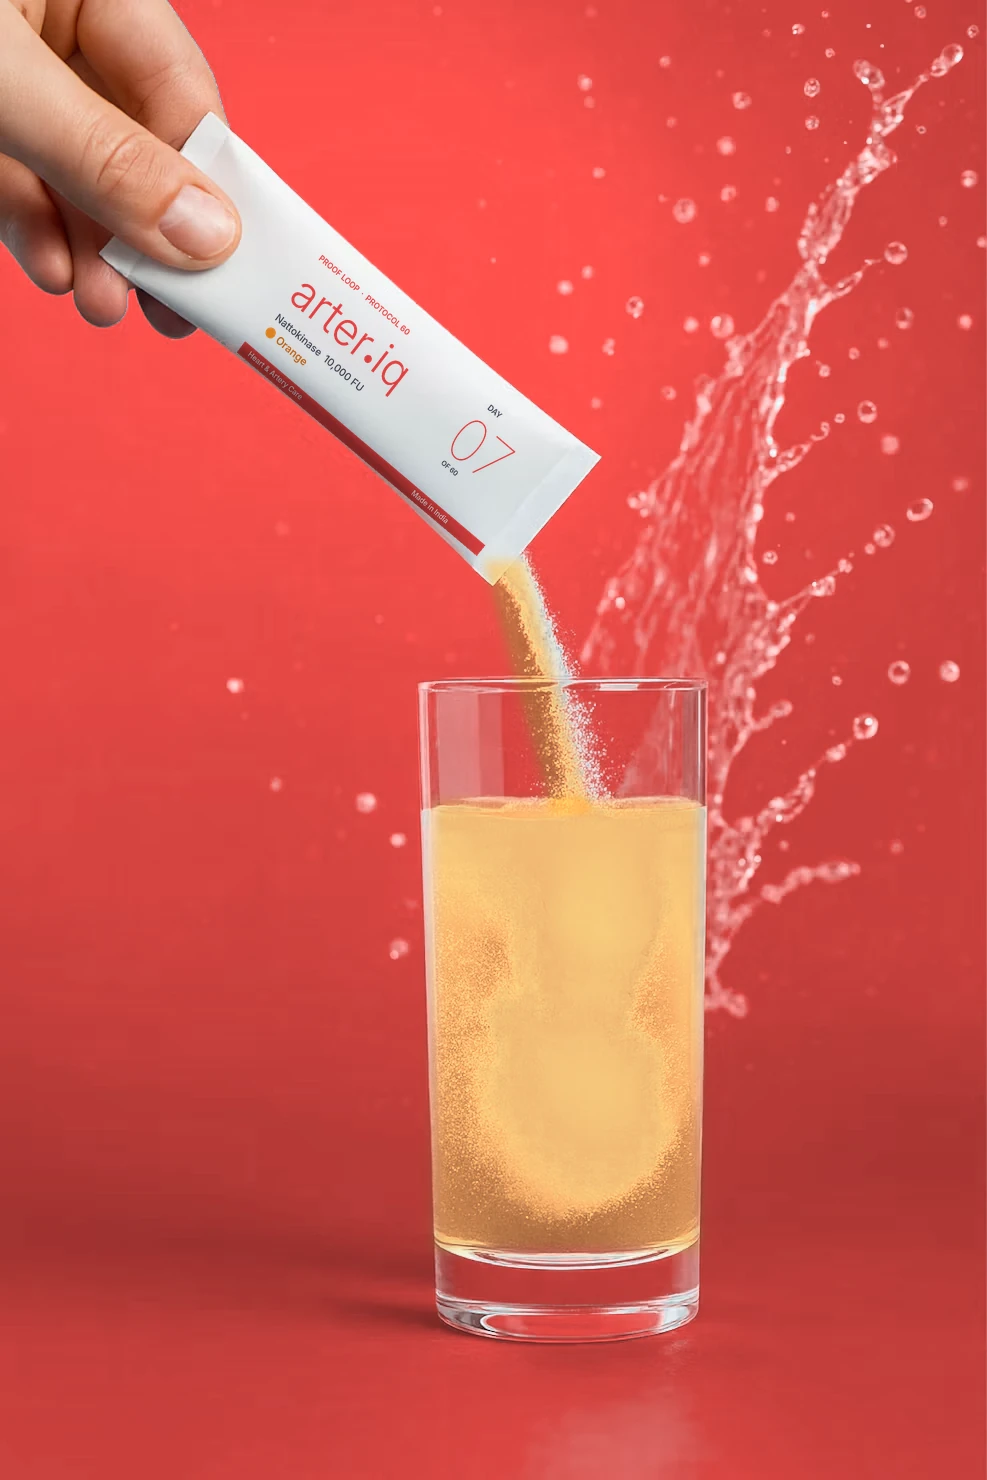
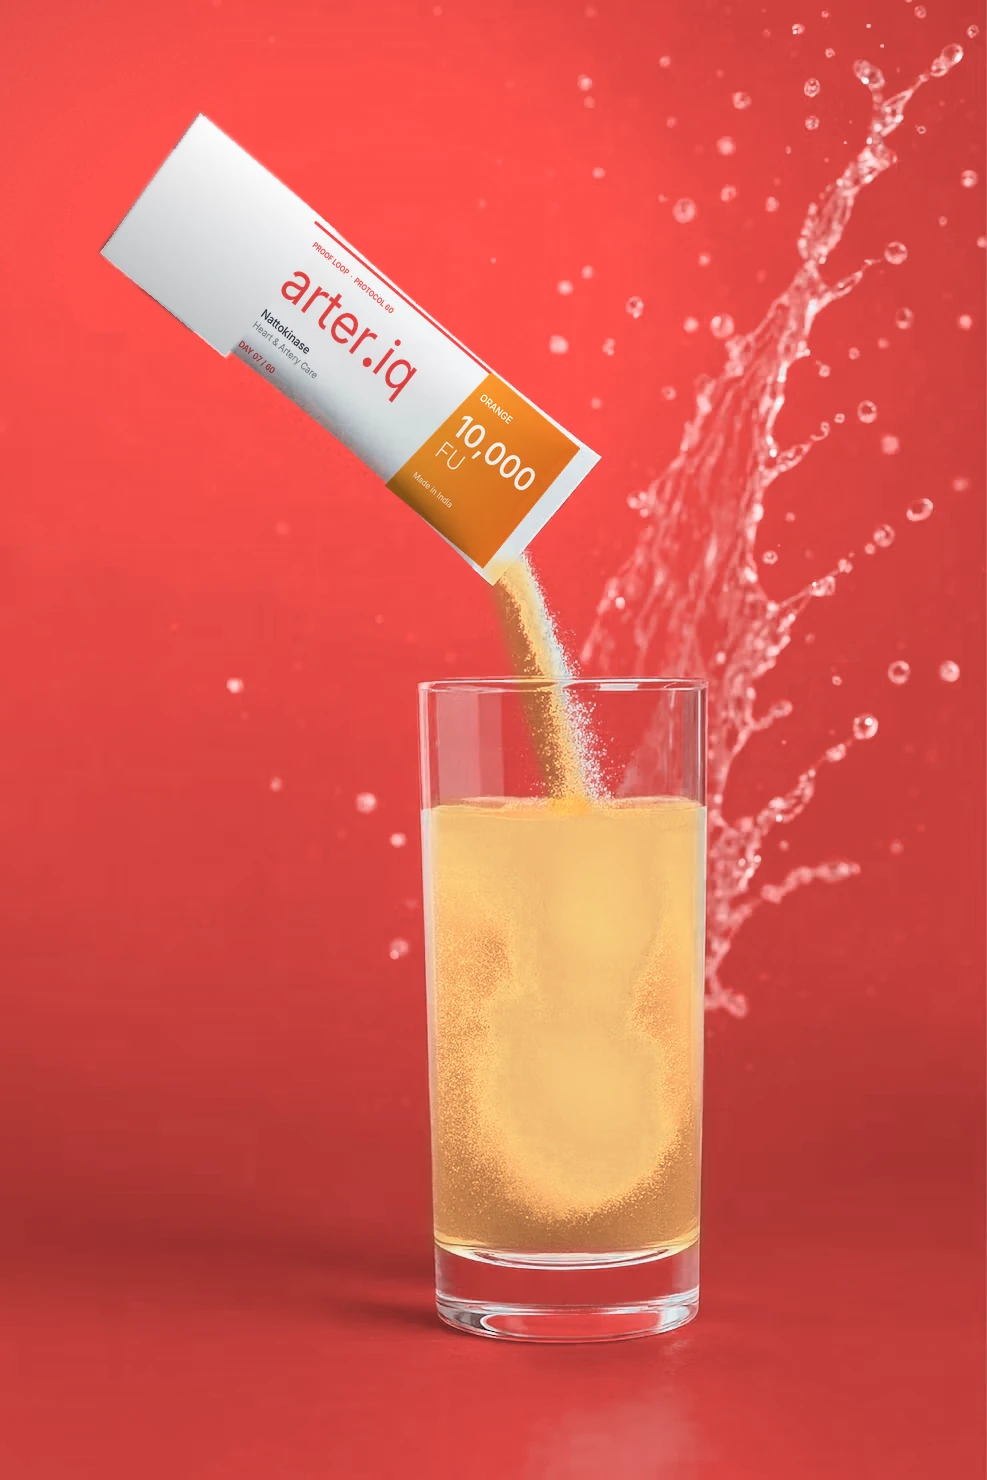
Hero: hand removed, sharper photo, redesigned Orange sachet with 10,000 FU panel
Claude-Session: https://claude.ai/code/session_01PkeobWmfrChtD7SqVdFZLv

Changed region(s): [[0.0, 0.0, 0.6079, 0.4041]]

diff --git a/index.html b/index.html
@@ -1264,6 +1264,7 @@ body:has(.hfull) .hdr:not(.sc) .logo,body:has(.hfull) .hdr:not(.sc) .hnav a,body
 .hfull .prfic{background:#FFF1EC!important;box-shadow:none!important}
 .hfull .prfi{border-left-color:#F1E7E2!important}
 body:has(.hfull) .hdr:not(.sc) a[href="#top"] svg{filter:brightness(0) invert(1)}
+@media (max-width:1000px){.leapbx.hfull{padding-top:calc(min(150vw,780px))!important}}
 
 [hidden]{display:none!important}
 </style>

diff --git a/science.html b/science.html
@@ -1264,6 +1264,7 @@ body:has(.hfull) .hdr:not(.sc) .logo,body:has(.hfull) .hdr:not(.sc) .hnav a,body
 .hfull .prfic{background:#FFF1EC!important;box-shadow:none!important}
 .hfull .prfi{border-left-color:#F1E7E2!important}
 body:has(.hfull) .hdr:not(.sc) a[href="#top"] svg{filter:brightness(0) invert(1)}
+@media (max-width:1000px){.leapbx.hfull{padding-top:calc(min(150vw,780px))!important}}
 
 [hidden]{display:none!important}
 </style>
